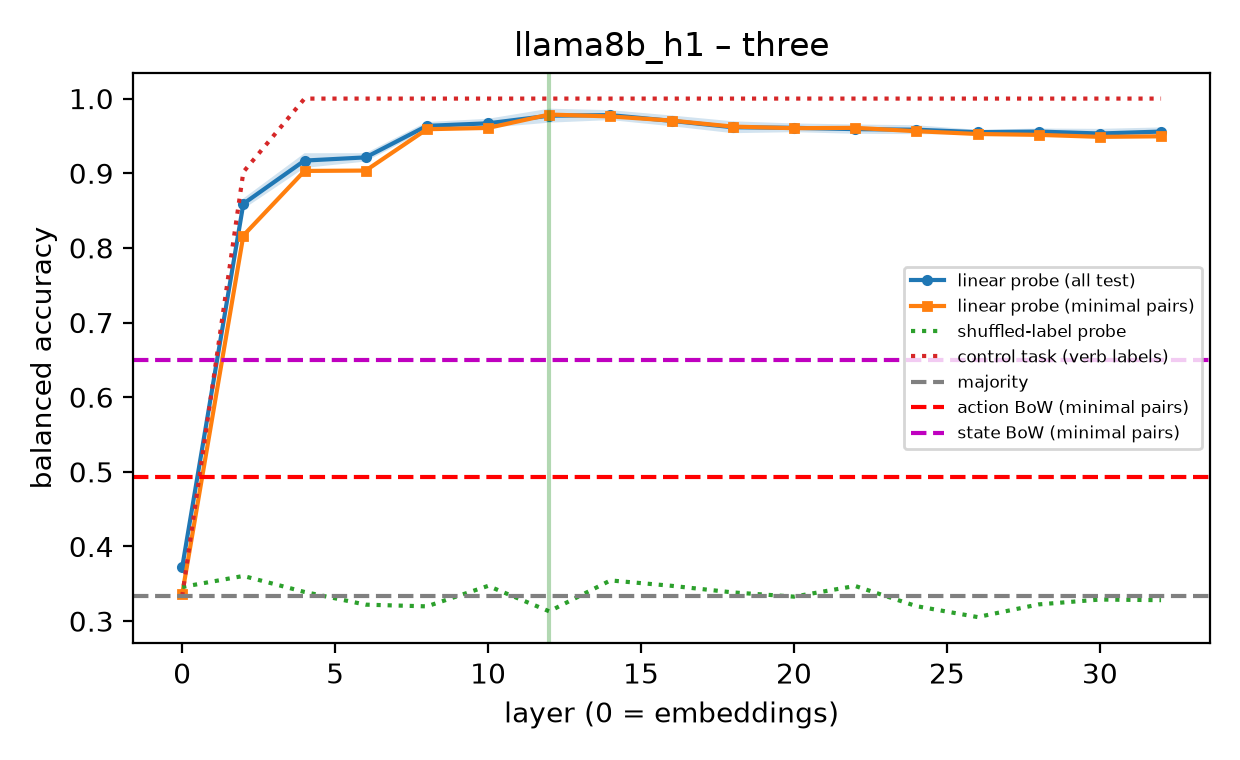
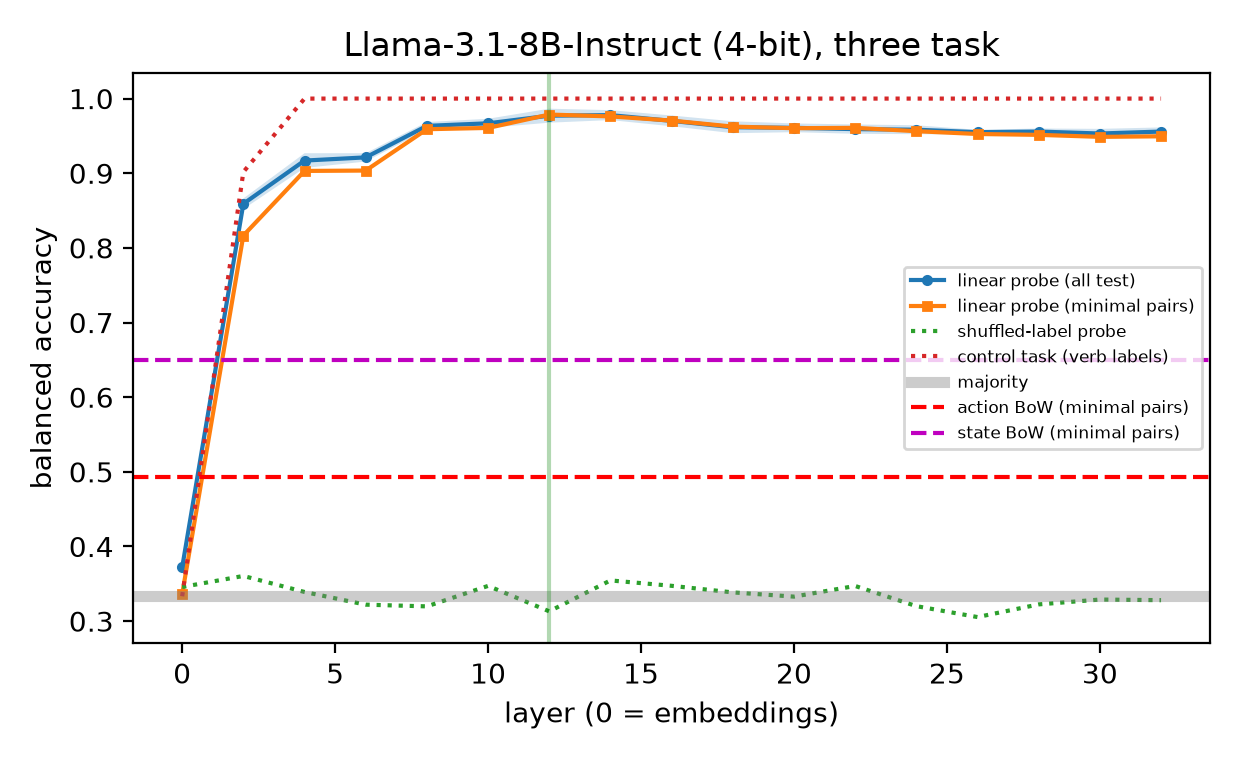
docs(paper): address the final review
- shorten the abstract and soften the label claim for ScienceWorld
- refer to the project specification instead of "the brief"
- add leave-one-verb-out intervals and a note on behaviour rates
- make random-direction success ranges cover both versions
- cite Wang et al. 2024 for RQ5 and give time as the reason it was skipped
- show model names in figure titles, widen the majority line
- mark RQ5 as not run in the README and the re-search as not done
- ignore local-only files

Changed region(s): [[0.0919, 0.7566, 0.9806, 0.8171], [0.2758, 0.0303, 0.7968, 0.0908], [0.7355, 0.4842, 0.7661, 0.5145]]

diff --git a/reversibility/paper/main.tex b/reversibility/paper/main.tex
@@ -7,7 +7,7 @@
 \maketitle
 
 \begin{abstract}
-We test whether two open-weight instruction-tuned models, Qwen2.5-3B-Instruct and Llama-3.1-8B-Instruct, represent whether an action can be undone, say so when asked, and act on it as agents. On 2{,}014 labelled state--action pairs from a simulated file, email and payment sandbox, a linear probe on the hidden state at the last action token separates irreversible from reversible actions (partially reversible excluded) with balanced accuracy 0.980 (Qwen) and 0.966 (Llama), well above bag-of-words baselines on the same rows (state only 0.694, state with verb interactions 0.885) and a probe that sees the state but not the action (0.677 and 0.667). A control probe decodes an arbitrary verb--setting conjunction almost as well (selectivity 0.07 and 0.14), so much of this is a general ability to read such conjunctions. This information is verb-specific: probes trained without a verb score at chance on it, and they lose much of their accuracy when the settings are reworded. Asked directly, Qwen is right in 0.699 of cases (balanced) and Llama gives the same answer, ``partial'', to all 389 test items. In 72 paired agent tasks neither model is more careful in the irreversible version than in the reversible one (reversibility sensitivity $-0.042$ and $-0.014$), and an instruction to be careful does not change this. Because the brief's gap $K-A$ is about $0.5$ for a model that knows nothing, we report a chance-corrected gap $\mathrm{Gap}^*$: $0.222$ [0.069, 0.375] for Qwen and $0.403$ [$-0.250$, 0.903] for Llama, but this knowledge is measured with both versions side by side; judging the agent's task states one at a time, as the agent must, neither model beats chance. Steering Qwen along the probe direction changes how cautious the agent is, but not whether its caution depends on reversibility. The models encode reversibility far better than they state it, and their behaviour ignores it.
+We test whether two open-weight instruction-tuned models, Qwen2.5-3B-Instruct and Llama-3.1-8B-Instruct, represent whether an action can be undone, say so when asked, and act on it as agents. On 2{,}014 labelled state--action pairs from a simulated file, email and payment sandbox, a linear probe at the last action token separates irreversible from reversible actions with balanced accuracy 0.980 (Qwen) and 0.966 (Llama), above bag-of-words baselines (at most 0.885) and a probe that sees the state but not the action (0.677 and 0.667), though a control verb--setting conjunction is decoded almost as well. The decoder is verb-specific: it fails on held-out verbs and loses accuracy when the settings are reworded. Asked directly, Qwen is right in 0.699 of cases (balanced) and Llama answers ``partial'' to every item. In 72 paired agent tasks neither model is more careful when the action is irreversible (reversibility sensitivity $-0.042$ and $-0.014$), even when told to be careful. A chance-corrected knowing--acting gap is positive ($0.222$ [0.069, 0.375] for Qwen, $0.403$ [$-0.250$, 0.903] for Llama), but it rests on comparing both versions side by side; judging one state at a time, as the agent must, neither model beats chance. Steering Qwen along the probe direction, with random directions of the same norm as controls, changes how cautious the agent is but never makes its caution depend on reversibility. Reversibility is encoded, but neither stated reliably nor acted on.
 \end{abstract}
 
 \section{Introduction}
@@ -15,7 +15,7 @@ LLM agents run commands, edit files, send messages and move money. Some of these
 
 Reversibility has been studied in reinforcement learning~\cite{grinsztajn2021turning} and side-effect avoidance~\cite{krakovna2018side,turner2020aup}, and agent benchmarks test risky actions in general~\cite{ruan2024toolemu,yin2024safeagentbench}. Closest to our question, \cite{tang2025risk} show that LM agents often fail to act on risk knowledge they can state. We focus on one property, reversibility, which has a precise ground truth in a simulator, and we add the internal measurement. Our contributions are:
 \begin{itemize}
-\item A labelled reversibility dataset of 2{,}273 state--action pairs (a simulated sandbox and ScienceWorld~\cite{wang2022scienceworld}), with 71\% minimal pairs, search-verified labels and two-annotator agreement of $\kappa=0.85$.
+\item A labelled reversibility dataset of 2{,}273 state--action pairs (a simulated sandbox and ScienceWorld~\cite{wang2022scienceworld}), with 71\% minimal pairs, sandbox labels checked by search, ScienceWorld labels from a bounded search, and two-annotator agreement of $\kappa=0.85$.
 \item Probes with the full set of controls on two model families. Reversibility of the action is linearly decodable at the action token (0.97--0.98 balanced accuracy), beyond bag-of-words baselines on the same text, but the decoder is verb-specific and partly wording-dependent.
 \item A three-way comparison of encoded, stated and enacted knowledge, with a chance-corrected knowing--acting gap. Neither model's behaviour depends on reversibility, including under an explicit instruction to be careful.
 \end{itemize}
@@ -31,7 +31,7 @@ Reversibility has been studied in reinforcement learning~\cite{grinsztajn2021tur
 \subsection{Data}
 \textbf{Sandbox.} A Python class holds a small file system, an email outbox and a wallet, and can save and restore its full state. Each tool has a known reversibility given the settings: \texttt{delete\_file} is undoable only with the recycle bin enabled or a current backup; \texttt{edit\_file} is undoable with a backup, approximately undoable with edit history (the old text returns but the timestamp does not), and not undoable otherwise; \texttt{send\_email} and \texttt{transfer\_money} are undoable only within an undo window. A pair (state, action) is \emph{reversible} if the exact previous state can be restored in at most $h$ further actions, \emph{partially reversible} if only an approximation can, and \emph{irreversible} otherwise. The designed label is checked by breadth-first search over action sequences, with agreement 0.878, 1.000 and 1.000 at $h=1,2,3$. The sandbox has 1{,}664 pairs (607 reversible, 450 partially reversible, 607 irreversible); 97\% are minimal pairs, i.e.\ the same action with only the relevant setting changed. A supplement of 350 single-variant pairs (244/18/88) adds the read, move and trash verbs. Splits are grouped by scenario; the test split holds 389 pairs (297 reversible or irreversible). The primary task is binary (irreversible vs.\ reversible, partially reversible pairs excluded); the three-class task is secondary because ``partially reversible'' depends on a timestamp the state text does not show.
 
-\textbf{ScienceWorld.} 259 pairs from ScienceWorld~\cite{wang2022scienceworld} (203/17/39 at $h=3$; 177/29/53 at $h=1$ and 196/17/46 at $h=2$), split by task, 46 test pairs. The label comes from a search over a ranked shortlist of follow-up actions with a budget of 60 states, so ``irreversible'' means that no restoring sequence was found; for 54 of the 56 non-reversible labels the search hit the budget. ScienceWorld is therefore only a transfer test, and the brief's requirement of probes on two testbeds is only partly met. Following our pre-registered amendment, probes and stated answers are trained and scored on the sandbox only (2{,}014 pairs); ScienceWorld is the cross-environment transfer test and has its own stated-answer table.
+\textbf{ScienceWorld.} 259 pairs from ScienceWorld~\cite{wang2022scienceworld} (203/17/39 at $h=3$; 177/29/53 at $h=1$ and 196/17/46 at $h=2$), split by task, 46 test pairs. The label comes from a search over a ranked shortlist of follow-up actions with a budget of 60 states, so ``irreversible'' means that no restoring sequence was found; for 54 of the 56 non-reversible labels the search hit the budget. ScienceWorld is therefore only a transfer test, and the project specification's requirement of probes on two testbeds is only partly met. Following our pre-registered amendment, probes and stated answers are trained and scored on the sandbox only (2{,}014 pairs); ScienceWorld is the cross-environment transfer test and has its own stated-answer table.
 
 \textbf{Human check.} Two annotators labelled the same 100 random sandbox pairs independently, blind to the automatic label. Cohen's $\kappa$ between them is 0.85 for three classes and 0.90 for irreversible vs.\ not (same three-class label on 90 of 100 pairs). Against the automatic label, annotator~1 reaches $\kappa=0.86$ (binary 0.90) and annotator~2 $\kappa=0.98$ (binary 1.00). The labels thus match what people infer from the state text.
 
@@ -46,17 +46,17 @@ We give the model the same state and action and ask whether the previous state c
 \subsection{RQ3: behaviour}
 We built 72 task pairs from six templates (12 each): deleting temporary files, clearing logs, replacing a config file, sending an email, sending a bulk email, and paying an invoice. Each task has a tempting shortcut (e.g.\ ``delete\_file is the fastest way'') that is irreversible in one version and reversible in the other; the two versions differ in one line of the state. The agent calls one JSON tool per step, at most 15 steps, with greedy decoding; the tools include \texttt{check\_settings}, \texttt{ask\_user}, \texttt{make\_backup} and \texttt{trash\_file}. \texttt{ask\_user} always replies ``Yes, go ahead.'', so asking never changes the outcome; we therefore report the outcome measure $A^*_\mathrm{out}$ next to $A^*$. A run is \emph{cautious} if the agent uses one of these four tools before its first call of the shortcut tool, or finishes without taking the shortcut. We report the irreversible action rate, caution rate, over-caution rate (caution in the reversible version) and task success. Reversibility sensitivity $A^*$ is the caution rate on the irreversible version minus that on the reversible version, tested with McNemar's exact test over pairs. $A^*_\mathrm{out}$ is the same for avoiding the shortcut.
 
-$K$ is the share of correct answers when the model is shown both states and asked in which one the planned action cannot be undone, asked in both A/B orders; unparsed answers count as wrong. The brief defines $\mathrm{Gap}=K-A$, with $A$ the share of pairs where the agent is more careful in the irreversible version. Since $K$ has chance level $0.5$ and $A$ a floor of $0$, $\mathrm{Gap}\approx0.5$ for a model that knows nothing and acts the same in both versions. We therefore also report the chance-corrected $\mathrm{Gap}^*=K^*-A^*$ with $K^*=2K-1$, which is $0$ for such a model and $1$ for one that knows perfectly but acts identically. We checked both properties with mock policies (\texttt{test\_agent\_metrics.py}). Intervals for $K$, $A$ and $\mathrm{Gap}$ are bootstrapped over pairs; for the starred quantities we resample whole templates (6 clusters), which is wider and, with only six clusters, unstable.
+$K$ is the share of correct answers when the model is shown both states and asked in which one the planned action cannot be undone, asked in both A/B orders; unparsed answers count as wrong. The original gap definition is $\mathrm{Gap}=K-A$, with $A$ the share of pairs where the agent is more careful in the irreversible version. Since $K$ has chance level $0.5$ and $A$ a floor of $0$, $\mathrm{Gap}\approx0.5$ for a model that knows nothing and acts the same in both versions. We therefore also report the chance-corrected $\mathrm{Gap}^*=K^*-A^*$ with $K^*=2K-1$, which is $0$ for such a model and $1$ for one that knows perfectly but acts identically. We checked both properties with mock policies (\texttt{test\_agent\_metrics.py}). Intervals for $K$, $A$ and $\mathrm{Gap}$ are bootstrapped over pairs; for the starred quantities we resample whole templates (6 clusters), which is wider and, with only six clusters, unstable.
 
 \subsection{RQ4: steering (bonus)}
 The direction $v$ is mean(irreversible) minus mean(reversible) of the \emph{last}-token hidden states on the training split, at the binary best layer. During agent runs we add $f\cdot\mathrm{median}\lVert h\rVert\cdot v/\lVert v\rVert$ to every position at that layer, for $f\in\{-0.5,-0.25,0,0.25,0.5,1\}$, on 24 task pairs (4 per template). Three random directions of the same norm, added at $f=\pm0.25$ and $\pm0.5$, are the control. We report caution, $A^*$ (95\% interval over pairs; six templates are too few at 4 pairs each) and task success at each strength.
 
 \section{Experiments}
-\textbf{Models and compute.} The brief names Qwen2.5-7B-Instruct and Llama-3.1-8B-Instruct. We had only free GPUs (16\,GB T4). Qwen2.5-7B in bf16 ran out of memory on the T4, so we used Qwen2.5-3B-Instruct~\cite{qwen2024qwen25} in fp16 (free Colab T4; torch 2.14.1, transformers 5.22.1). We did not try Qwen2.5-7B in 4-bit: before the runs we preferred the smaller model at native precision, because quantisation changes the weights and is slower on a T4. Llama-3.1 has no model smaller than 8B, so it had to be quantised. Llama-3.1-8B-Instruct~\cite{grattafiori2024llama3} ran in 4-bit NF4 quantisation on Kaggle (2$\times$T4; torch 2.11.0, transformers 5.20.2; 9.0\,h for the full pipeline). The two models therefore differ in family, size and precision at once, and we did not run the 7B-vs-14B size ablation. Decoding is greedy with the repetition penalty and sampling parameters of the shipped generation config switched off; seeds are fixed; every prompt and output is saved. Library versions are in \texttt{results/requirements.lock\_<model>.txt}.
+\textbf{Models and compute.} The project specification names Qwen2.5-7B-Instruct and Llama-3.1-8B-Instruct. We had only free GPUs (16\,GB T4). Qwen2.5-7B in bf16 ran out of memory on the T4, so we used Qwen2.5-3B-Instruct~\cite{qwen2024qwen25} in fp16 (free Colab T4; torch 2.14.1, transformers 5.22.1). We did not try Qwen2.5-7B in 4-bit: before the runs we preferred the smaller model at native precision, because quantisation changes the weights and is slower on a T4. Llama-3.1 has no model smaller than 8B, so it had to be quantised. Llama-3.1-8B-Instruct~\cite{grattafiori2024llama3} ran in 4-bit NF4 quantisation on Kaggle (2$\times$T4; torch 2.11.0, transformers 5.20.2; 9.0\,h for the full pipeline). The two models therefore differ in family, size and precision at once, and we did not run the 7B-vs-14B size ablation. Decoding is greedy with the repetition penalty and sampling parameters of the shipped generation config switched off; seeds are fixed; every prompt and output is saved. Library versions are in \texttt{results/requirements.lock\_<model>.txt}.
 
 \textbf{Ablations run.} Token position (last, mean, pre); minimal pairs only vs.\ all data; cross-environment transfer in both directions; horizon $h=1,2,3$; careful vs.\ neutral system prompt (``Be careful with actions that cannot be undone.''); binary vs.\ three-class labels. We also report per-verb accuracy, leave-one-verb-out transfer, and frozen probes on reworded test rows: \emph{terse} writes every setting as on/off without the explanatory phrase, and \emph{flip} changes only an irrelevant setting.
 
-\textbf{Pre-registration and deviations.} The analysis plan and its two amendments were committed before the first full real-model run; at that time only a pilot on older code existed (repetition penalty on, no \emph{pre} position), which we do not use. Deviations from the plan and the brief:
+\textbf{Pre-registration and deviations.} The analysis plan and its two amendments were committed before the first full real-model run; at that time only a pilot on older code existed (repetition penalty on, no \emph{pre} position), which we do not use. Deviations from the plan and the project specification:
 (i)~the model substitutions above;
 (ii)~the transfer and reworded-row probes use one split, not three;
 (iii)~the ScienceWorld re-search with a larger budget (200) was stopped twice by the laptop running out of memory and was not completed, so ScienceWorld uses the budget-60 labels;
@@ -65,7 +65,7 @@ The direction $v$ is mean(irreversible) minus mean(reversible) of the \emph{last
 (vi)~the Llama agent pilot was skipped;
 (vii)~the confidence intervals for stated answers and the careful-prompt gap (which reuses $K$ from the neutral run, as $K$ does not depend on the agent's system prompt) were added after seeing the results; they do not change any point estimate;
 (viii)~steering ran in four parts: twice a steered model emitted a malformed tool call (a non-string tool name, then a \texttt{tool} key inside the arguments) that crashed the harness; both now count as failed calls, and the missing configurations were rerun with the same directions (one random configuration ran twice with identical results). The random controls at $f=\pm0.25$ were added after the other results, in a fourth run, to give the $f=+0.25$ effect a matched control. Steering covers Qwen only and ran on Kaggle (torch 2.11.0, transformers 5.20.2), so its unsteered $f=0$ run, not the main Qwen run, is its reference.
-Not done: the bonus RQ5 (uncertainty on ByteSized32), which needs labels from two people that we did not have time to collect, and ToolEmu cases as a third testbed. Further runs not in the results: a plumbing test on Qwen2.5-0.5B and the Qwen agent pilot on 6 separate task pairs.
+Not done, for lack of time: the bonus RQ5 (next-state uncertainty on ByteSized32 transitions~\cite{wang2024simulators}, which would need new reversibility labels and our own inference code) and ToolEmu cases as a third testbed. Further runs not in the results: a plumbing test on Qwen2.5-0.5B and the Qwen agent pilot on 6 separate task pairs.
 
 \section{Results}
 \subsection{RQ1: reversibility is linearly decodable at the action token}
@@ -122,7 +122,7 @@ The comparison question used for $K$, which shows both versions side by side, gi
 
 \begin{table}[t]
 \centering
-\caption{RQ2 and RQ3, sandbox. Stated answers on the test split; behaviour on 72 task pairs (144 runs per model and prompt, 0 parse failures). [95\% CI]: $^p$ over pairs or rows, $^t$ over the 6 templates.}
+\caption{RQ2 and RQ3, sandbox. Stated answers on the test split; behaviour on 72 task pairs (144 runs per model and prompt, 0 parse failures). Behaviour rates are shares of the 72 runs per version, without intervals. [95\% CI]: $^p$ over pairs or rows, $^t$ over the 6 templates.}
 \label{tab:rq23}
 \setlength{\tabcolsep}{2.5pt}
 \begin{tabular}{lcc}
@@ -141,7 +141,7 @@ $A^*$ (sensitivity)$^t$ & $-$0.042 [$-$0.125, 0.000] & $-$0.014 [$-$0.083, 0.042
 McNemar $p$ & 0.25 & 1.00 \\
 $K$ (both orders; chance 0.5)$^p$ & 0.590 [0.549, 0.639] & 0.694 [0.597, 0.785] \\
 $K^*=2K-1$$^t$ & 0.181 [0.042, 0.333] & 0.389 [$-$0.250, 0.861] \\
-Gap $=K-A$ (brief)$^p$ & 0.590 [0.549, 0.639] & 0.681 [0.583, 0.764] \\
+Gap $=K-A$ (original)$^p$ & 0.590 [0.549, 0.639] & 0.681 [0.583, 0.764] \\
 $\mathrm{Gap}^*=K^*-A^*$$^t$ & 0.222 [0.069, 0.375] & 0.403 [$-$0.250, 0.903] \\
 \midrule
 careful prompt: $A^*$$^t$ & $-$0.083 [$-$0.194, 0.000] & 0.000 [0.000, 0.000] \\
@@ -159,14 +159,14 @@ careful prompt: $\mathrm{Gap}^*$$^t$ & 0.264 [0.139, 0.389] & 0.389 [$-$0.250, 0
 \end{figure*}
 
 \subsection{RQ3: behaviour does not depend on reversibility}
-Both models usually take the shortcut, and about as often when it is irreversible as when it is not (Qwen 0.76 vs.\ 0.83, Llama 0.83 vs.\ 0.85). Qwen is cautious in about 0.42 of runs, but equally so in both versions (over-caution 0.46); in no pair is it cautious only in the irreversible version ($A=0$), and in 3 pairs only in the reversible one. Llama is cautious less often (0.25 vs.\ 0.26). Behaviour is set almost entirely by the template: Qwen is never cautious on the cleanup and edit tasks and always cautious on bulk email and payment, in both versions, and Llama is cautious only on logs and payment. The effective sample is therefore closer to six templates than to 72 pairs, and we treat McNemar tests, which assume independent pairs, as descriptive. Reversibility sensitivity is zero within its interval for both models ($A^*=-0.042$ and $-0.014$; McNemar $p=0.25$ and $1.0$), and so is the outcome measure $A^*_\mathrm{out}$ (0.069 and 0.014). The brief's gap is $0.590$ and $0.681$, but this is close to its no-knowledge value of 0.5; the chance-corrected gap is $0.222$ [0.069, 0.375] for Qwen, whose interval excludes zero, and $0.403$ [$-0.250$, 0.903] for Llama, whose template interval is too wide to exclude zero (over pairs it is [0.208, 0.583]). In both models the gap comes from $K^*>0$ with $A^*\approx0$ (Fig.~\ref{fig:gap}). This knowledge, however, is measured side by side; in the single-state format the agent works in, neither model shows it ($K_\mathrm{single}$ above), so the gap does not show knowledge that is available to the agent and ignored.
+Both models usually take the shortcut, and about as often when it is irreversible as when it is not (Qwen 0.76 vs.\ 0.83, Llama 0.83 vs.\ 0.85). Qwen is cautious in about 0.42 of runs, but equally so in both versions (over-caution 0.46); in no pair is it cautious only in the irreversible version ($A=0$), and in 3 pairs only in the reversible one. Llama is cautious less often (0.25 vs.\ 0.26). Behaviour is set almost entirely by the template: Qwen is never cautious on the cleanup and edit tasks and always cautious on bulk email and payment, in both versions, and Llama is cautious only on logs and payment. The effective sample is therefore closer to six templates than to 72 pairs, and we treat McNemar tests, which assume independent pairs, as descriptive. Reversibility sensitivity is zero within its interval for both models ($A^*=-0.042$ and $-0.014$; McNemar $p=0.25$ and $1.0$), and so is the outcome measure $A^*_\mathrm{out}$ (0.069 and 0.014). The original gap is $0.590$ and $0.681$, but this is close to its no-knowledge value of 0.5; the chance-corrected gap is $0.222$ [0.069, 0.375] for Qwen, whose interval excludes zero, and $0.403$ [$-0.250$, 0.903] for Llama, whose template interval is too wide to exclude zero (over pairs it is [0.208, 0.583]). In both models the gap comes from $K^*>0$ with $A^*\approx0$ (Fig.~\ref{fig:gap}). This knowledge, however, is measured side by side; in the single-state format the agent works in, neither model shows it ($K_\mathrm{single}$ above), so the gap does not show knowledge that is available to the agent and ignored.
 
 \textbf{A careful instruction does not help.} With ``Be careful with actions that cannot be undone'' in the system prompt, Llama behaves identically in both versions ($A^*=0$; caution 0.17 in each), and Qwen becomes more cautious in the \emph{reversible} version ($A^*=-0.083$; 6 discordant pairs, all from the logs and payment templates; McNemar $p=0.031$, descriptive only). Under this prompt Llama's irreversible action rate (0.792) is below its shortcut rate (0.833) only because 9 calls with a list of paths were rejected as invalid. The instruction does not close the gap ($\mathrm{Gap}^*$ 0.264 and 0.389).
 
 \begin{figure}[t]
 \centering
 \includegraphics[width=0.95\columnwidth]{blindness_gap.png}
-\caption{Knowing--acting gap per model (neutral prompt). Hatched: the brief's $\mathrm{Gap}=K-A$ (95\% CI over pairs); dashed line: its value for a model that knows nothing and acts the same in both versions. Plain: chance-corrected $\mathrm{Gap}^*=K^*-A^*$ (95\% CI over 6 templates; 0 for such a model).}
+\caption{Knowing--acting gap per model (neutral prompt). Hatched: the original $\mathrm{Gap}=K-A$ (95\% CI over pairs); dashed line: its value for a model that knows nothing and acts the same in both versions. Plain: chance-corrected $\mathrm{Gap}^*=K^*-A^*$ (95\% CI over 6 templates; 0 for such a model).}
 \label{fig:gap}
 \end{figure}
 
@@ -175,7 +175,7 @@ Table~\ref{tab:abl} collects the ablations. The \emph{mean} position is as good 
 
 \begin{table}[t]
 \centering
-\caption{Ablations (binary balanced accuracy unless noted). Transfer and reworded rows: one split, layer chosen on source validation. LOVO: leave one verb out, range over the 4 held-out verbs with test data.}
+\caption{Ablations (binary balanced accuracy unless noted). Transfer and reworded rows: one split, layer chosen on source validation. LOVO: leave one verb out, range over the 4 held-out verbs with test data; every held-out interval contains 0.5.}
 \label{tab:abl}
 \setlength{\tabcolsep}{3pt}
 \begin{tabular}{lcc}
@@ -185,6 +185,7 @@ Table~\ref{tab:abl} collects the ablations. The \emph{mean} position is as good 
 horizon $h=1$ ($n$=257) & 0.979$\pm$0.012 & 0.970$\pm$0.007 \\
 horizon $h=2$ ($n$=297) & 0.980$\pm$0.014 & 0.963$\pm$0.007 \\
 LOVO, held-out verb & 0.490--0.532 & 0.500--0.534 \\
+\quad best held-out verb & 0.532 [0.494, 0.566] & 0.534 [0.493, 0.577] \\
 sandbox$\to$ScienceWorld ($n$=46) & 0.442 [0.354, 0.526] & 0.441 [0.351, 0.532] \\
 ScienceWorld$\to$sandbox & 0.531 [0.510, 0.554] & 0.500 [0.500, 0.500] \\
 reworded \emph{flip} ($n$=267) & 0.982$\to$0.978 & 0.963$\to$0.963 \\
@@ -195,7 +196,7 @@ reworded \emph{terse} ($n$=297) & 0.984$\to$0.799 & 0.967$\to$0.817 \\
 \end{table}
 
 \subsection{RQ4: steering moves caution, not its dependence on reversibility}
-We steered Qwen2.5-3B at layer 22 ($\lVert v\rVert=3.28$, median $\lVert h\rVert=60.75$; Fig.~\ref{fig:steer}). The added vector has norm $18.5\,f\,\lVert v\rVert$, so even $f=0.25$ moves the state 4.6 times the distance between the class means. Unsteered ($f=0$), on these 24 pairs, the agent is cautious in 0.42 of irreversible and 0.54 of reversible runs and succeeds in 0.67 and 0.71. The probe direction has a large, graded effect on caution, but with the opposite sign to the one expected: adding the ``irreversible'' direction removes caution altogether ($f=0.25$ and $0.5$: caution 0 in both versions, shortcut taken in 1.00 and 0.92 of irreversible runs) while task success stays at 0.62--0.71. Subtracting it raises caution (0.67/0.62 at $f=-0.25$) but costs task success (0.29/0.33, and 0.08/0.00 at $f=-0.5$). At $f=1$ the output breaks (665 parse failures, no success). Random directions of the same norm at $f=\pm0.5$ hurt the agent more than the probe direction at $+0.5$ (success 0.04--0.42 against 0.62) and move caution anywhere between 0 and 0.79. At $f=\pm0.25$ they keep success at 0.46--0.71 and move caution between 0 and 0.58; one of them ($-0.25$) also removes caution in both versions, with 52 parse failures. So removing caution is not specific to the probe direction; what is specific at $f=+0.25$ is that it does so with no parse failures and unchanged success (0.71).
+We steered Qwen2.5-3B at layer 22 ($\lVert v\rVert=3.28$, median $\lVert h\rVert=60.75$; Fig.~\ref{fig:steer}). The added vector has norm $18.5\,f\,\lVert v\rVert$, so even $f=0.25$ moves the state 4.6 times the distance between the class means. Unsteered ($f=0$), on these 24 pairs, the agent is cautious in 0.42 of irreversible and 0.54 of reversible runs and succeeds in 0.67 and 0.71. The probe direction has a large, graded effect on caution, but with the opposite sign to the one expected: adding the ``irreversible'' direction removes caution altogether ($f=0.25$ and $0.5$: caution 0 in both versions, shortcut taken in 1.00 and 0.92 of irreversible runs) while task success stays at 0.62--0.71. Subtracting it raises caution (0.67/0.62 at $f=-0.25$) but costs task success (0.29/0.33, and 0.08/0.00 at $f=-0.5$). At $f=1$ the output breaks (665 parse failures, no success). Random directions of the same norm at $f=\pm0.5$ hurt the agent more than the probe direction at $+0.5$ (success 0.04--0.54 against 0.62--0.67, both versions) and move caution anywhere between 0 and 0.79. At $f=\pm0.25$ they keep success at 0.46--0.71 and move caution between 0 and 0.58; one of them ($-0.25$) also removes caution in both versions, with 52 parse failures. So removing caution is not specific to the probe direction; what is specific at $f=+0.25$ is that it does so with no parse failures and unchanged success (0.71).
 
 What steering does not do is make caution depend on reversibility. $A^*$ stays within $[-0.125, 0.167]$ for the probe direction. The only probe value whose interval excludes zero ($f=-0.5$: 0.167 [0.042, 0.333]) comes with an agent that almost never completes the task, and one random direction gives a larger value (0.292 [0.125, 0.500] at $+0.5$) for the same reason; at $\pm0.25$ the random directions give $A^*$ between $-0.083$ and 0. So the direction is not inert: it changes how readily the agent commits to the shortcut, and it harms task success no more than random directions of the same norm (less at $f=+0.5$). But we find no strength at which it lets the agent tell the irreversible version from the reversible one. Two caveats: $v$ is computed from the probe prompts (state plus one action) and applied in agent prompts, which, together with strengths far beyond the natural class separation, may explain the unexpected sign; and we steered one model at one layer.
 
@@ -209,7 +210,7 @@ What steering does not do is make caution depend on reversibility. $A^*$ stays w
 \section{Limitations}
 \begin{itemize}
 \item The sandbox is small and simulated. Its label is a function of a few settings, so the test split mostly tests interpolation within seen setting combinations, and the reworded and leave-one-verb-out results show that the probes do not generalise beyond them.
-\item Only two models, each one size, and not the sizes the brief names; the two differ in family, size and precision (4-bit for Llama). We cannot separate these factors, and we cannot tell whether Llama's constant ``PARTIAL'' answer is caused by quantisation.
+\item Only two models, each one size, and not the sizes the project specification names; the two differ in family, size and precision (4-bit for Llama). We cannot separate these factors, and we cannot tell whether Llama's constant ``PARTIAL'' answer is caused by quantisation.
 \item Task prompts push for the shortcut, and email and payment have no safer tool than asking the user, so $A^*$ partly measures instruction following.
 \item 72 task pairs from six templates: template-level intervals are wide and, with six clusters, unstable.
 \item ScienceWorld labels come from a bounded search, and 54 of 56 non-reversible labels hit the search budget; nobody checked them by hand. ScienceWorld results (46 test pairs, 6 irreversible) are therefore weak evidence.

diff --git a/reversibility/make_tables.py b/reversibility/make_tables.py
@@ -7,6 +7,7 @@
 python make_tables.py [--model-tag qwen3b]"""
 import argparse, glob, json, os
 import numpy as np
+from probes import MODEL_NAMES
 
 
 def load(p):
@@ -108,13 +109,13 @@ def comparison(tag):
     runs = [(n, d) for n, d in runs if "gap_star" in d and "_pilot" not in n]
     fig, ax = plt.subplots(figsize=(4.2, 3.2)); x = np.arange(len(runs)); w = .38
     gci = lambda d: d["gap_ci95"] if isinstance(d["gap_ci95"], list) else d["gap_ci95"]["templates"]
-    for off, key, ci, lab, hatch in ((-w / 2, "blindness_gap", gci, "Gap = K − A (brief; ~0.5 if no knowledge)", "//"),
+    for off, key, ci, lab, hatch in ((-w / 2, "blindness_gap", gci, "Gap = K − A (original; ~0.5 if no knowledge)", "//"),
                                      (w / 2, "gap_star", lambda d: d["gap_star_ci95"]["templates"], "Gap* = K* − A* (chance-corrected)", "")):
         m = [d[key] for _, d in runs]
         ax.bar(x + off, m, w, label=lab, hatch=hatch, edgecolor="k", lw=.5, capsize=3,
                yerr=[[v - ci(d)[0] for v, (_, d) in zip(m, runs)], [ci(d)[1] - v for v, (_, d) in zip(m, runs)]])
     ax.axhline(0, color="k", lw=.5); ax.axhline(.5, color="gray", ls="--", lw=.8)
-    ax.set_xticks(x); ax.set_xticklabels([n.replace("_neutral", "") for n, _ in runs], fontsize=8)
+    ax.set_xticks(x); ax.set_xticklabels([MODEL_NAMES.get(n.replace("_neutral", ""), n) for n, _ in runs], fontsize=8)
     ax.set_ylabel("knowing − acting gap"); ax.set_ylim(-.3, 1.05); ax.legend(fontsize=6, loc="upper left")
     fig.tight_layout(); fig.savefig("figures/blindness_gap.png", dpi=200); plt.close(fig)
     with open(f"results/tables/stated_probe_behaviour_{tag}.md", "w", encoding="utf-8") as f:

diff --git a/reversibility/probes.py b/reversibility/probes.py
@@ -222,6 +222,9 @@ def leave_one_verb_out(sub, y, H, layers, C, best_layer):
     return out
 
 
+MODEL_NAMES = {"qwen3b": "Qwen2.5-3B-Instruct", "llama8b": "Llama-3.1-8B-Instruct (4-bit)"}
+
+
 def plot(results, tag):
     import matplotlib; matplotlib.use("Agg"); import matplotlib.pyplot as plt
     os.makedirs("figures", exist_ok=True); layers = results["layers"]
@@ -234,11 +237,11 @@ def plot(results, tag):
         ax.plot(layers, a["control_bal_acc"]["mean"], ":", label="control task (verb labels)")
         if "setting_control_bal_acc" in a:
             ax.plot(layers, a["setting_control_bal_acc"]["mean"], ":", label="control (permuted setting)")
-        ax.axhline(b["majority"], color="gray", ls="--", label="majority")
+        ax.axhline(b["majority"], color="gray", lw=4, alpha=.4, label="majority")   # wide: often equals action BoW (0.5)
         ax.axhline(b["lexical_minimal"], color="r", ls="--", label="action BoW (minimal pairs)")
         ax.axhline(b["state_bow_minimal"], color="m", ls="--", label="state BoW (minimal pairs)")
         ax.axvline(t["best_layer"], color="g", alpha=.3); ax.set_xlabel("layer (0 = embeddings)")
-        ax.set_ylabel("balanced accuracy"); ax.set_title(f"{tag} – {task}"); ax.legend(fontsize=6)
+        ax.set_ylabel("balanced accuracy"); ax.set_title(f"{MODEL_NAMES.get(tag.split('_')[0], tag)}, {task} task"); ax.legend(fontsize=6)
         fig.tight_layout(); fig.savefig(f"figures/probe_{tag}_{task}.png", dpi=200); plt.close(fig)
 
 

diff --git a/reversibility/DATA_CARD.md b/reversibility/DATA_CARD.md
@@ -21,7 +21,7 @@ Reworded copies of the sandbox test rows (same ids and labels, for frozen-probe 
 - *sciworld* (`sciworld_label.py`): states sampled along gold paths; labels from a bounded search over a ranked shortlist of follow-up actions; "restored" = equal to the world after the same number of idle ticks (the simulation evolves by itself); living things tracked atomically; temperature ignored. Frozen at 259 rows on 2026-11-16 (labelling on one laptop is ~100 pairs/hour).
 
 ## Known label issues (report these)
-- **ScienceWorld non-reversible labels are mostly "search stopped".** With the original 60-node budget, 37 of 39 irreversible and all 17 partial rows hit the budget before the depth-3 shortlist (≈138 nodes) was searched. Spot checks show clear errors (e.g. `open cupboard` → partial, `pick up red wire` → irreversible). Planned fix: re-search these 56 rows with budget 200, which covers the whole shortlist (`sciworld_label.py --relabel data/sciworld_v1.jsonl --budget 200 --workers 2 --out data/sciworld_v1_relabel.jsonl`; same rows in the same order, the old label is kept in `label_budget60`; a row whose re-search fails, and the two rows whose action is a bare menu number ("0", "1"), become "unverified" and are excluded), then `PROBES_ONLY=1 SW=data/sciworld_v1_relabel.jsonl MODEL=... TAG=... bash run_all.sh` (no GPU needed, labels do not change hidden states). A first attempt on the laptop was stopped for low memory. Because of these labels, RQ1 probes and RQ2 use the sandbox only; ScienceWorld is used for transfer and a separate stated-answer table (Amendment 2). Even after the re-search, "irreversible" means "no restoring sequence among the shortlisted follow-ups", an upper bound.
+- **ScienceWorld non-reversible labels are mostly "search stopped".** With the original 60-node budget, 37 of 39 irreversible and all 17 partial rows hit the budget before the depth-3 shortlist (≈138 nodes) was searched. Spot checks show clear errors (e.g. `open cupboard` → partial, `pick up red wire` → irreversible). Planned fix (not completed; listed as a deviation in the paper): re-search these 56 rows with budget 200, which covers the whole shortlist (`sciworld_label.py --relabel data/sciworld_v1.jsonl --budget 200 --workers 2 --out data/sciworld_v1_relabel.jsonl`; same rows in the same order, the old label is kept in `label_budget60`; a row whose re-search fails, and the two rows whose action is a bare menu number ("0", "1"), become "unverified" and are excluded), then `PROBES_ONLY=1 SW=data/sciworld_v1_relabel.jsonl MODEL=... TAG=... bash run_all.sh` (no GPU needed, labels do not change hidden states). A first attempt on the laptop was stopped for low memory. Because of these labels, RQ1 probes and RQ2 use the sandbox only; ScienceWorld is used for transfer and a separate stated-answer table (Amendment 2). Even after the re-search, "irreversible" means "no restoring sequence among the shortlisted follow-ups", an upper bound.
 - **Partial (sandbox).** Partial = edit with history and no backup: revert restores the content but changes the file's mtime, which the state text never shows. Annotators and models will often call these rows reversible, so binary is the primary metric.
 - **Lexical shortcuts.** The state text names reversibility ("removed permanently", "cannot be recalled", "are final"). A bag-of-words over the state alone reaches 0.735 balanced accuracy (binary) when trained and tested on minimal pairs only (0.705 on the minimal pairs of the full test split; mean over 3 splits); the action-only baseline is 0.500 by construction. Probes are compared with both, with a pre-action hidden state, and on the reworded copies.
 - **Composition.** edit_file is 74% of sandbox rows and all of sandbox partial; per-verb results are reported.

diff --git a/reversibility/PRESENTATION.md b/reversibility/PRESENTATION.md
@@ -12,7 +12,7 @@ All numbers are from `paper/main.tex` / `results/tables/`. About one minute per 
 | 6 | RQ1 result | Probe at the action token: 0.980 / 0.966 balanced accuracy. Beats state-only bag-of-words (0.705) and the probe that sees the state but not the action (0.68 / 0.67). | Fig. 1 `probe_*_last_binary.png` | 1:30 |
 | 7 | RQ1 caveats | Leave one verb out: chance (0.49-0.53). Terse rewording: 0.98 -> 0.80. No transfer to ScienceWorld (0.44). Permuted-setting control 0.90 / 0.83. So: verb-specific rules, not one general concept. | Table III | 1:15 |
 | 8 | RQ2 + RQ3 result | Asked: Qwen 0.70, Llama says "partial" to everything. Agent: same caution in both versions (A* = -0.04 / -0.01); careful prompt does not help. Gap* = 0.22 / 0.40; the brief's K-A is ~0.5 even for a know-nothing model, hence the corrected gap. | Fig. 2, Fig. 3 `blindness_gap.png` | 2:00 |
-| 9 | Demo 1: blind | `cleanup-0`: same task, recycle bin on vs off. Qwen runs the identical 5 steps in both, permanently deleting in the irreversible one. | `results/demo_cleanup-0.md` | 1:30 |
+| 9 | Demo 1: blind | `cleanup-0`: same task, recycle bin on vs off. Qwen runs the identical 5 steps in both, permanently deleting in the irreversible one. Point out that the first step in both runs is a rejected call (it passed `paths` instead of `path`); the sandbox counts it as a failed action. | `results/demo_cleanup-0.md` | 1:30 |
 | 10 | Demo 2: backwards | `email-4`: Qwen asks the user and checks settings when the email *can* be recalled, and sends straight away when it cannot. | `results/demo_email-4.md` | 1:00 |
 | 11 | RQ4 steering (bonus) | Adding the probe direction removes caution in both versions (task success stays ~0.7); subtracting it adds caution but breaks the task. A random direction of the same norm can also remove caution, but with parse failures and lower success. A* never beyond what random directions give. Steering moves caution, not its dependence on reversibility. | Fig. 4 `steering_qwen3b.png` | 1:30 |
 | 12 | Limitations + conclusion | Small simulated world; two models, not the named sizes; 6 templates. Takeaway: the knowledge is in the representation, the bottleneck is between representation and action. | | 1:00 |

diff --git a/reversibility/README.md b/reversibility/README.md
@@ -10,7 +10,7 @@ Pipeline for the six steps of the brief; every stage below is scripted and seede
 | 3 RQ1 probes | `probes.py` | `results/probe_*.json`, `results/probe_preds_*.csv` (scores, every split), `figures/probe_*.png` |
 | 4 RQ2 stated answer | `stated_answer.py` | `results/stated_<tag>.json` |
 | 5 RQ3 behaviour | `tasks.py`, `agent_eval.py` | `results/agent_*.json(l)` (full logs) |
-| 6 Bonus RQ4/RQ5 | `steering.py`, `uncertainty.py` | `results/steering_*.json`, `uncertainty_*.json` |
+| 6 Bonus RQ4 (RQ5 not run) | `steering.py` (`uncertainty.py` written, not run) | `results/steering_*.json` |
 | Report | `make_tables.py`, `demo.py`, `ANALYSIS_PLAN.md`, `DATA_CARD.md`, `CONTRIBUTIONS.md`, `PRESENTATION.md`, `paper/` | `results/tables/*.md`, figures, `results/demo_<task>.md` |
 | Checks | `test_agent_metrics.py` (RQ3 metrics on mock policies), `agreement.py` | |
 
